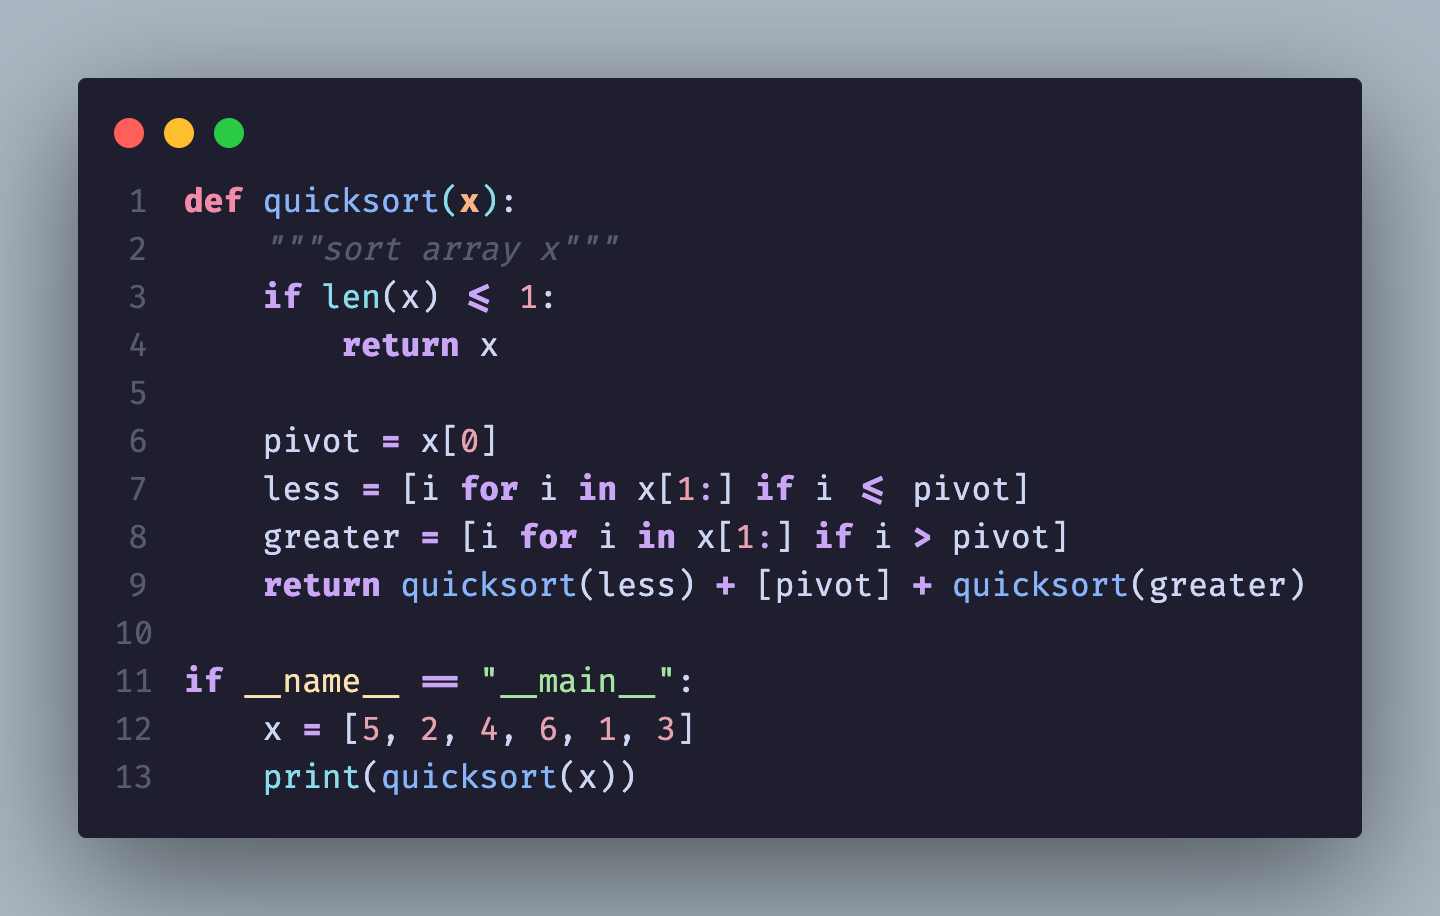
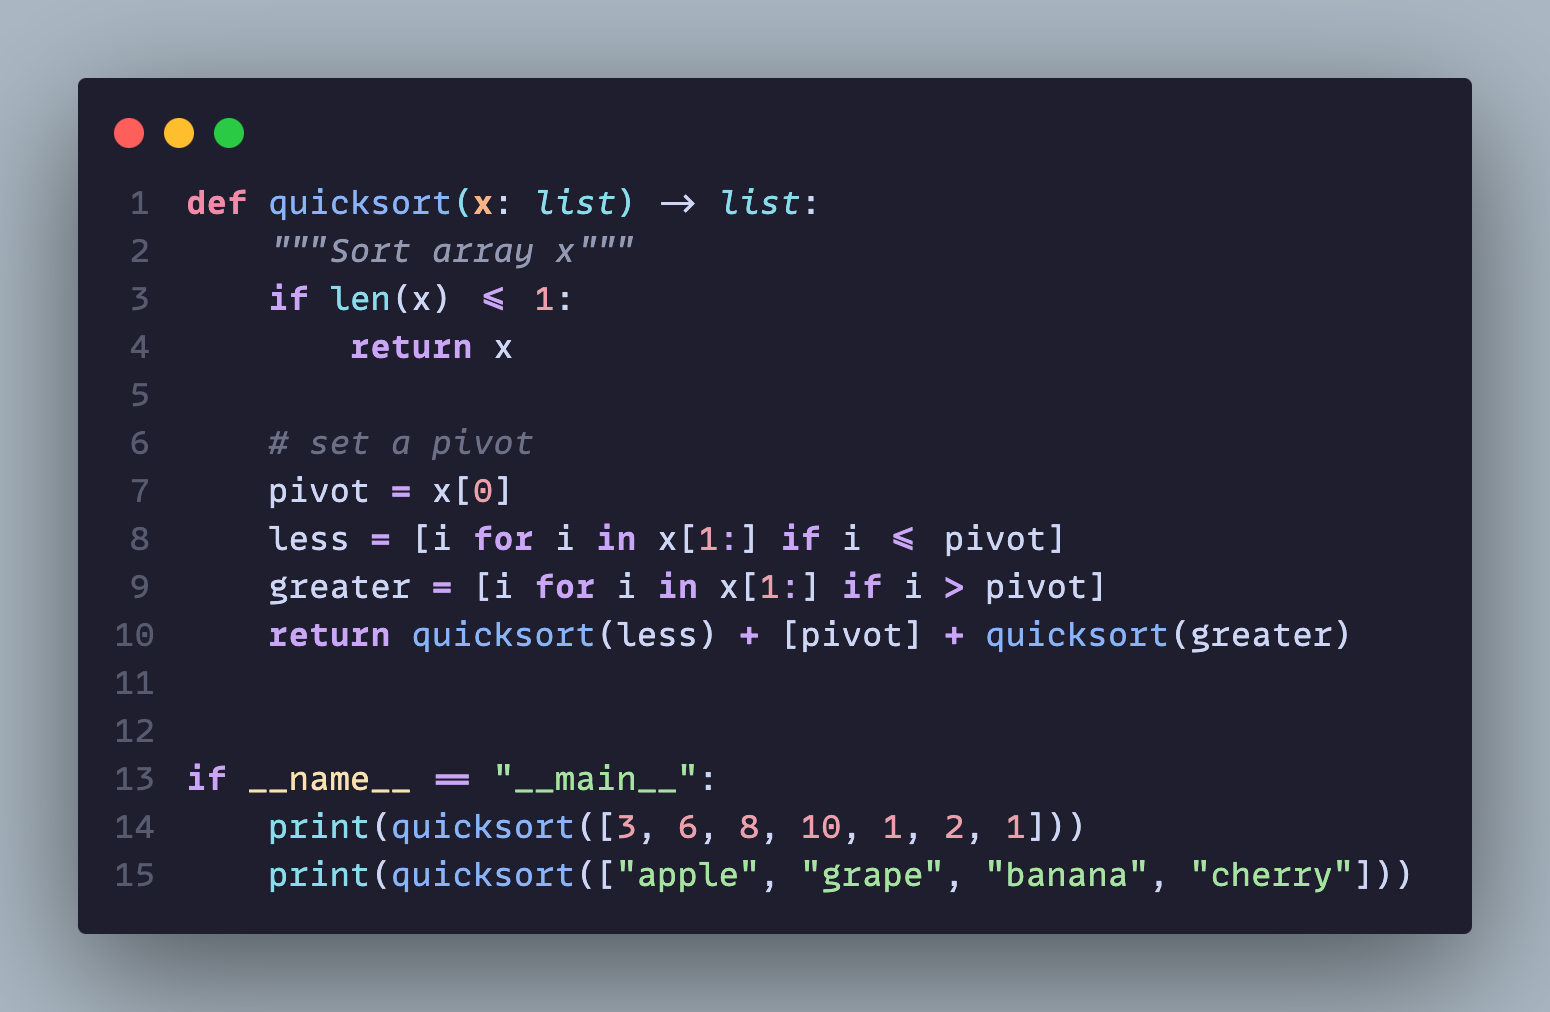
Color updates (#25)
* update README code samples

* Revert "update README code samples"

This reverts commit 425eedbd3add49c04fc9e064f876b5258d611fce.

* update README and code samples

* update coloring

* update README

* update package and CHANGELOG

diff --git a/images/quicksort.ts b/images/quicksort.ts
@@ -1,12 +1,19 @@
-function quickSort(array: Array<number>, left: number = 0, right: number = array.length - 1) {
-  if (left < right) {
-    const pivot = partition(array, left, right);
-    quickSort(array, left, pivot - 1);
-    quickSort(array, pivot + 1, right);
+/**
+ * Perform quicksort on an array.
+ * @param arr Array to be sorted.
+ * @param less Comparator function for sorting.
+ * @returns Sorted array.
+ */
+function quicksort<T>(arr: T[], less: (a: T, b: T) => boolean): T[] {
+  if (arr.length <= 1) {
+    return arr;
   }
+  const pivot = arr[Math.floor(arr.length / 2)];
+  const left = arr.filter(x => less(x, pivot));
+  const middle = arr.filter(x => !less(x, pivot) && !less(pivot, x));
+  const right = arr.filter(x => less(pivot, x));
+  return [...quicksort(left, less), ...middle, ...quicksort(right, less)];
 }
 
-console.assert(
-    quickSort([3, 2, 1, 4, 5, 6, 7, 8, 9, 10]) === [1, 2, 3, 4, 5, 6, 7, 8, 9, 10],
-    "Wrong Implementation"
-);
+console.log(quicksort<number>([3, 6, 8, 10, 1, 2, 1], (a, b) => a < b));
+console.log(quicksort<string>(["apple", "grape", "banana", "cherry"], (a, b) => a < b));

diff --git a/images/quicksort.js b/images/quicksort.js
@@ -1,0 +1,19 @@
+/**
+ * Perform quicksort on an array.
+ * @param {Array} arr - Array to be sorted.
+ * @param {Function} less - Comparator function for sorting.
+ * @returns {Array} Sorted array.
+ */
+function quicksort(arr, less) {
+    if (arr.length <= 1) {
+        return arr;
+    }
+    let pivot = arr[Math.floor(arr.length / 2)];
+    let left = arr.filter(x => less(x, pivot));
+    let middle = arr.filter(x => !less(x, pivot) && !less(pivot, x));
+    let right = arr.filter(x => less(pivot, x));
+    return quicksort(left, less).concat(middle).concat(quicksort(right, less));
+}
+
+console.log(quicksort([3, 6, 8, 10, 1, 2, 1], (a, b) => a < b));
+console.log(quicksort(["apple", "grape", "banana", "cherry"], (a, b) => a < b));

diff --git a/images/quicksort.java b/images/quicksort.java
@@ -1,0 +1,32 @@
+import java.util.ArrayList;
+import java.util.Arrays;
+import java.util.List;
+import java.util.function.BiPredicate;
+
+public class QuickSort {
+
+    public static <T> List<T> quicksort(List<T> arr, BiPredicate<T, T> less) {
+        if (arr.size() <= 1) {
+            return arr;
+        }
+        T pivot = arr.get(arr.size() / 2);
+        List<T> left = new ArrayList<>();
+        List<T> middle = new ArrayList<>();
+        List<T> right = new ArrayList<>();
+        for (T item : arr) {
+            if (less.test(item, pivot)) left.add(item);
+            else if (!less.test(item, pivot) && !less.test(pivot, item)) middle.add(item);
+            else right.add(item);
+        }
+        List<T> sorted = new ArrayList<>();
+        sorted.addAll(quicksort(left, less));
+        sorted.addAll(middle);
+        sorted.addAll(quicksort(right, less));
+        return sorted;
+    }
+
+    public static void main(String[] args) {
+        System.out.println(quicksort(Arrays.asList(3,6,8,10,1,2,1), (Integer a, Integer b) -> a < b));
+        System.out.println(quicksort(Arrays.asList("apple", "grape", "banana", "cherry"), (String a, String b) -> a.compareTo(b) < 0));
+    }
+}

diff --git a/images/quicksort.cpp b/images/quicksort.cpp
@@ -1,0 +1,38 @@
+#include <iostream>
+#include <vector>
+#include <string>
+
+template <typename T>
+std::vector<T> quicksort(const std::vector<T>& arr) {
+    if (arr.size() <= 1) {
+        return arr;
+    }
+    T pivot = arr[arr.size() / 2];
+    std::vector<T> left, middle, right;
+    for (const T& item : arr) {
+        if (item < pivot) left.push_back(item);
+        else if (item == pivot) middle.push_back(item);
+        else right.push_back(item);
+    }
+    left = quicksort(left);
+    right = quicksort(right);
+    left.insert(left.end(), middle.begin(), middle.end());
+    left.insert(left.end(), right.begin(), right.end());
+    return left;
+}
+
+int main() {
+    std::vector<int> numbers = {3,6,8,10,1,2,1};
+    std::vector<int> sortedNumbers = quicksort(numbers);
+    for (const int& num : sortedNumbers) {
+        std::cout << num << " ";
+    }
+    std::cout << std::endl;
+
+    std::vector<std::string> words = {"apple", "grape", "banana", "cherry"};
+    std::vector<std::string> sortedWords = quicksort(words);
+    for (const std::string& word : sortedWords) {
+        std::cout << word << " ";
+    }
+    std::cout << std::endl;
+}

diff --git a/images/quicksort.cs b/images/quicksort.cs
@@ -1,0 +1,29 @@
+using System;
+using System.Collections.Generic;
+using System.Linq;
+
+class Program
+{
+    public static List<T> Quicksort<T>(List<T> arr, Comparison<T> comparison)
+    {
+        if (arr.Count <= 1) {
+            return arr;
+        }
+        T pivot = arr[arr.Count / 2];
+        List<T> left = arr.Where(x => comparison(x, pivot) < 0).ToList();
+        List<T> middle = arr.Where(x => comparison(x, pivot) == 0).ToList();
+        List<T> right = arr.Where(x => comparison(x, pivot) > 0).ToList();
+        return Quicksort(left, comparison).Concat(middle).Concat(Quicksort(right, comparison)).ToList();
+    }
+
+    static void Main(string[] args)
+    {
+        List<int> numbers = new List<int>{3,6,8,10,1,2,1};
+        List<int> sortedNumbers = Quicksort(numbers, (a, b) => a.CompareTo(b));
+        Console.WriteLine(string.Join(" ", sortedNumbers));
+
+        List<string> words = new List<string>{"apple", "grape", "banana", "cherry"};
+        List<string> sortedWords = Quicksort(words, (a, b) => a.CompareTo(b));
+        Console.WriteLine(string.Join(" ", sortedWords));
+    }
+}

diff --git a/images/quicksort.go b/images/quicksort.go
@@ -1,0 +1,37 @@
+package main
+
+import (
+	"fmt"
+)
+
+func quicksort(arr []interface{}, less func(i, j interface{}) bool) []interface{} {
+	if len(arr) <= 1 {
+		return arr
+	}
+	pivot := arr[len(arr)/2]
+	var left, middle, right []interface{}
+	for _, v := range arr {
+		if less(v, pivot) {
+			left = append(left, v)
+		} else if !less(v, pivot) && !less(pivot, v) {
+			middle = append(middle, v)
+		} else {
+			right = append(right, v)
+		}
+	}
+	return append(append(quicksort(left, less), middle...), quicksort(right, less)...)
+}
+
+func main() {
+	numbers := []interface{}{3, 6, 8, 10, 1, 2, 1}
+	sortedNumbers := quicksort(numbers, func(i, j interface{}) bool {
+		return i.(int) < j.(int)
+	})
+	fmt.Println(sortedNumbers)
+
+	words := []interface{}{"apple", "grape", "banana", "cherry"}
+	sortedWords := quicksort(words, func(i, j interface{}) bool {
+		return i.(string) < j.(string)
+	})
+	fmt.Println(sortedWords)
+}

diff --git a/images/quicksort.rs b/images/quicksort.rs
@@ -1,0 +1,24 @@
+fn quicksort<T: Ord + Clone>(arr: &[T]) -> Vec<T> {
+    if arr.len() <= 1 {
+        return arr.to_vec();
+    }
+    let pivot = &arr[arr.len() / 2];
+    let left: Vec<T> = arr.iter().filter(|&&x| x < *pivot).cloned().collect();
+    let middle: Vec<T> = arr.iter().filter(|&&x| x == *pivot).cloned().collect();
+    let right: Vec<T> = arr.iter().filter(|&&x| x > *pivot).cloned().collect();
+
+    let mut result = quicksort(&left);
+    result.extend(&middle);
+    result.extend(&quicksort(&right));
+    return result;
+}
+
+fn main() {
+    let numbers = vec![3,6,8,10,1,2,1];
+    let sorted_numbers = quicksort(&numbers);
+    println!("{:?}", sorted_numbers);
+
+    let words = vec!["apple", "grape", "banana", "cherry"];
+    let sorted_words = quicksort(&words);
+    println!("{:?}", sorted_words);
+}

diff --git a/images/quicksort.py b/images/quicksort.py
@@ -1,13 +1,15 @@
-def quicksort(x):
-    """sort array x"""
+def quicksort(x: list) -> list:
+    """Sort array x"""
     if len(x) <= 1:
         return x
 
+    # set a pivot
     pivot = x[0]
     less = [i for i in x[1:] if i <= pivot]
     greater = [i for i in x[1:] if i > pivot]
     return quicksort(less) + [pivot] + quicksort(greater)
 
+
 if __name__ == "__main__":
-    x = [5, 2, 4, 6, 1, 3]
-    print(quicksort(x))
+    print(quicksort([3, 6, 8, 10, 1, 2, 1]))
+    print(quicksort(["apple", "grape", "banana", "cherry"]))

diff --git a/README.md b/README.md
@@ -12,8 +12,16 @@ Typescript
 ![Typescript](images/ts_sample.png)
 Javascript
 ![Javascript](images/js_sample.png)
+Java
+![Java](images/java_sample.png)
 C++
 ![C++](images/cpp_sample.png)
+C#
+![C#](images/cs_sample.png)
+Go
+![Go](images/go_sample.png)
+Rust
+![Rust](images/rust_sample.png)
 
 ## Description
 I absolutely love the syntax highlighting in the [Noctis](https://github.com/liviuschera/noctis) theme by Liviu Schera, but [Catppuccin](https://github.com/catppuccin/catppuccin) is absolutely blowing up right now and it is such a nice palette, I had to try to combine the two. This is the result!

diff --git a/CHANGELOG.md b/CHANGELOG.md
@@ -4,6 +4,12 @@ All notable changes to the "catppuccin-noctis" extension will be documented in t
 
 Check [Keep a Changelog](http://keepachangelog.com/) for recommendations on how to structure this file.
 
+## 1.5.0
+
+- update coloring for function calls
+- update coloring for logical keywords
+- update README with new code samples
+
 ## 1.4.3
 
 - remove notebook.inactiveFocusedCellBorder
